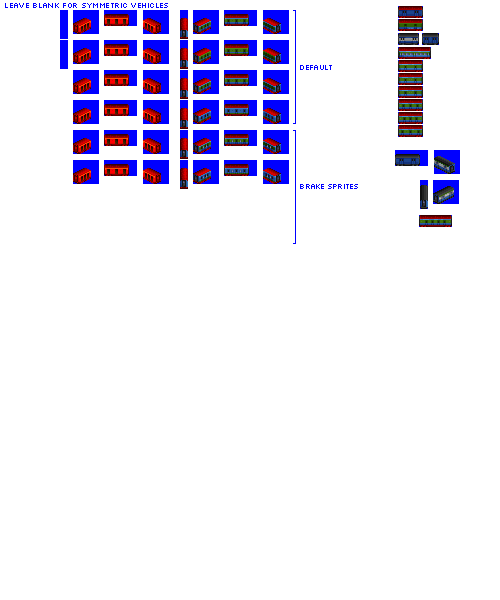
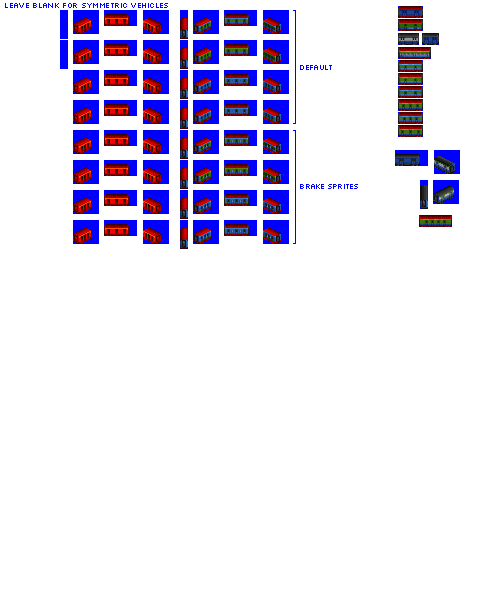
Change: WIP on mail car / railcar variants

Changed region(s): [[0.12, 0.27, 0.6, 0.42], [0.45, 0.12, 0.48, 0.15], [0.39, 0.12, 0.42, 0.15]]

diff --git a/src/vehicles/mail_cars.py b/src/vehicles/mail_cars.py
@@ -55,7 +55,7 @@ def main():
         base_numeric_id=11260,
         gen=1,
         subtype="B",
-        sprites_complete=False,
+        sprites_complete=True,
     )
 
     consist.add_unit(type=ExpressMailCar, chassis="4_axle_solid_express_24px")
@@ -75,7 +75,7 @@ def main():
         base_numeric_id=9960,
         gen=2,
         subtype="B",
-        sprites_complete=False,
+        sprites_complete=True,
     )
 
     consist.add_unit(type=ExpressMailCar, chassis="4_axle_solid_express_24px")
@@ -95,7 +95,7 @@ def main():
         base_numeric_id=11340,
         gen=3,
         subtype="B",
-        sprites_complete=False,
+        sprites_complete=True,
     )
 
     consist.add_unit(type=ExpressMailCar, chassis="4_axle_solid_express_24px")
@@ -105,7 +105,7 @@ def main():
         base_numeric_id=9980,
         gen=3,
         subtype="C",
-        sprites_complete=False,
+        sprites_complete=True,
     )
 
     consist.add_unit(type=ExpressMailCar, chassis="4_axle_solid_express_32px")
@@ -115,7 +115,7 @@ def main():
         base_numeric_id=10470,
         gen=4,
         subtype="A",
-        sprites_complete=False,
+        sprites_complete=True,
     )
 
     consist.add_unit(type=ExpressMailCar, chassis="2_axle_solid_express_16px")
@@ -125,7 +125,7 @@ def main():
         base_numeric_id=12200,
         gen=4,
         subtype="B",
-        sprites_complete=False,
+        sprites_complete=True,
     )
 
     consist.add_unit(type=ExpressMailCar, chassis="4_axle_solid_express_24px")

diff --git a/src/train.py b/src/train.py
@@ -1352,10 +1352,16 @@ class MailEngineRailcarConsist(MailEngineConsist):
                 "last": 2,
                 "special": 0,
             }
+        # temp kludge
+        if self.id in ["scooby", "dover"]:
+            liveries=[{}, {}, {}, {}]
+        else:
+            liveries=[{}, {}]
+
         self.gestalt_graphics = GestaltGraphicsConsistPositionDependent(
             spriterow_group_mappings,
             consist_ruleset=consist_ruleset,
-            liveries=[{}, {}],
+            liveries=liveries,
             # temp commented out until spritesheets revised
             #liveries=self.roster.default_mail_liveries,
             pantograph_type=self.pantograph_type,
